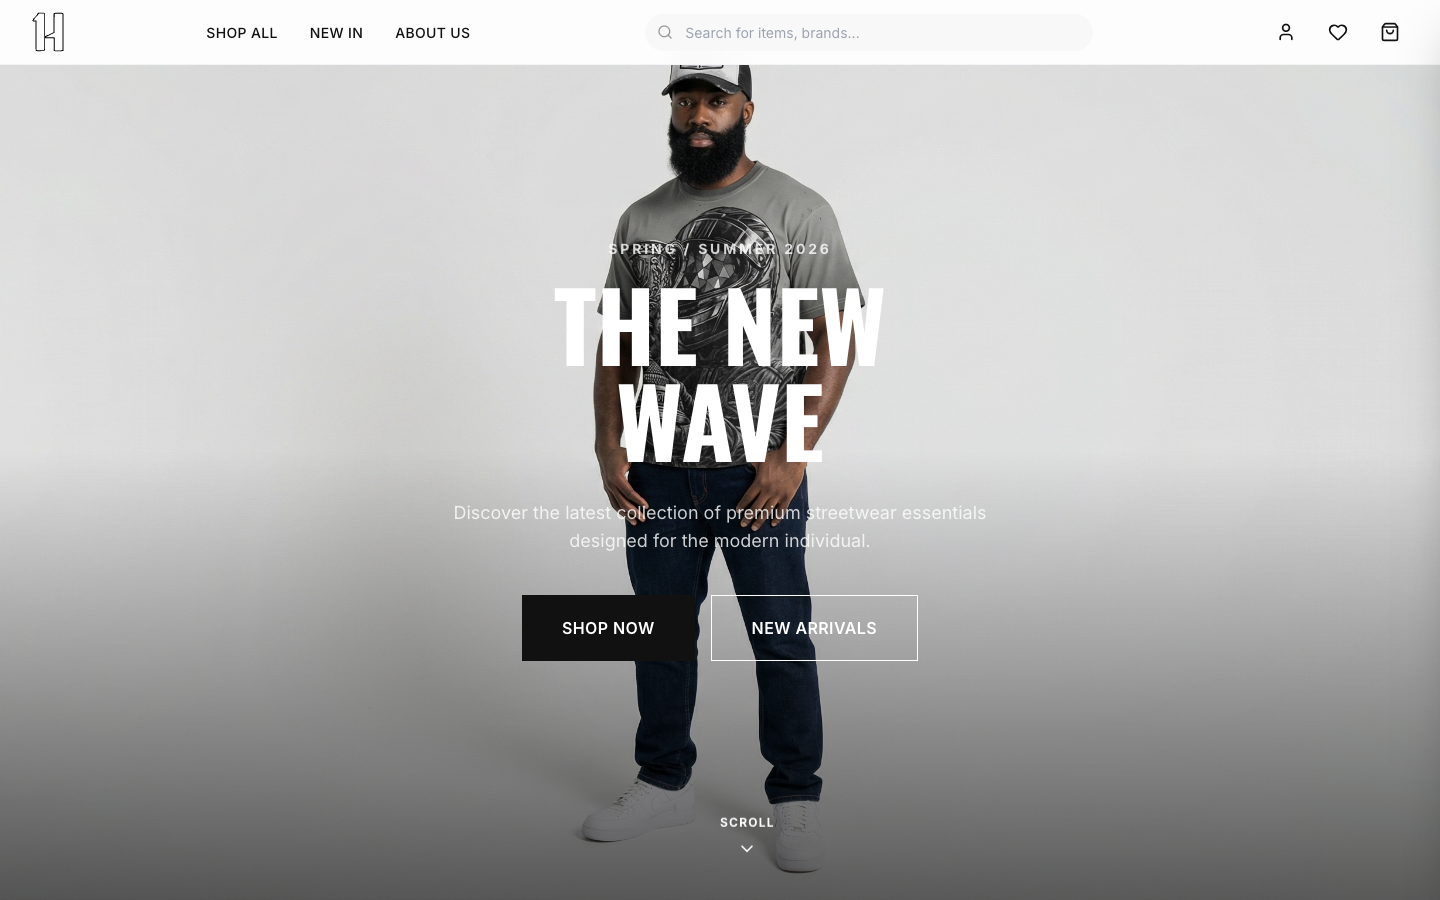
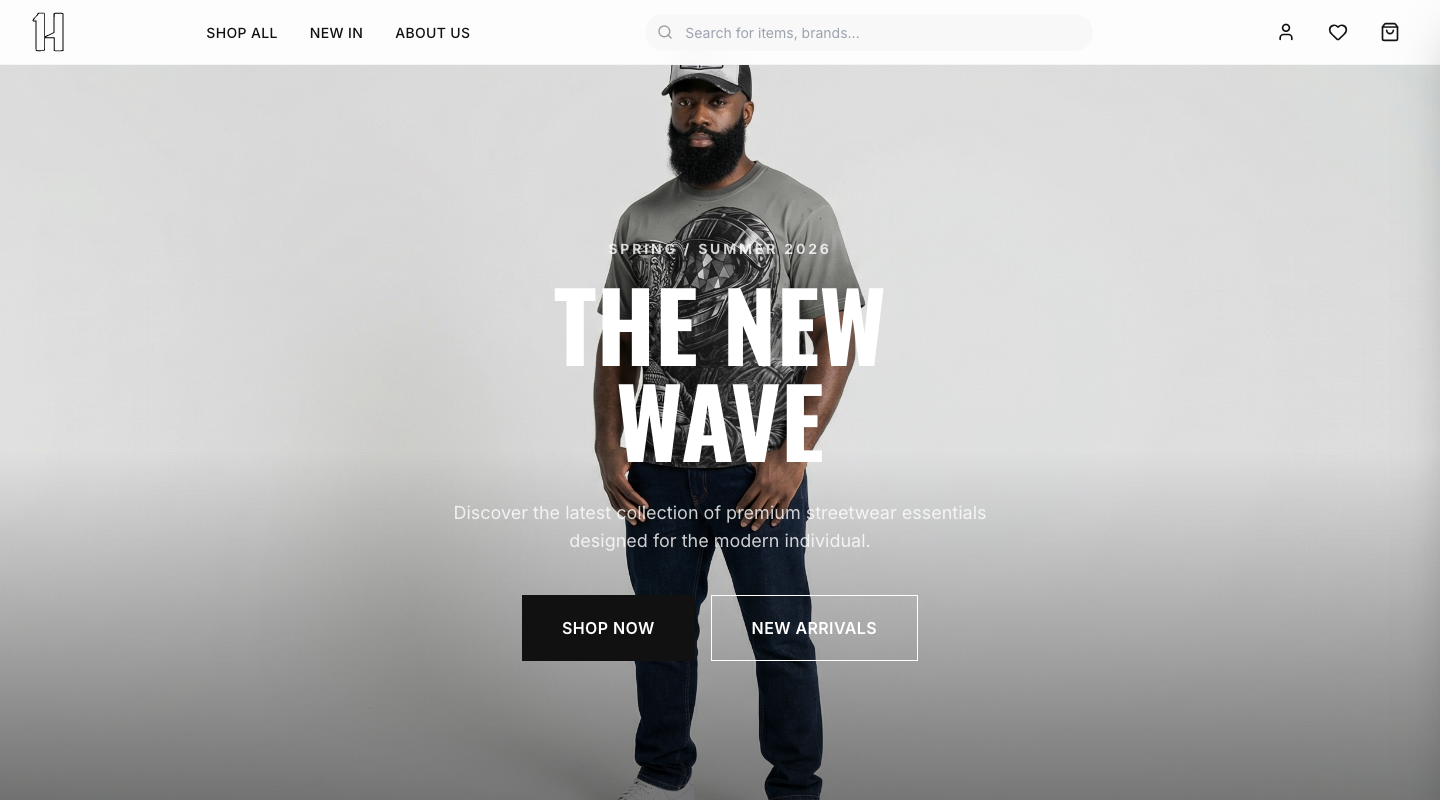
fix: further lower hero image to fully show hat
- Change object-position from 30% to 45%
- Ensure cap is fully visible above header

Changed region(s): [[0.0, 0.0312, 1.0, 1.0], [0.0, 0.6875, 0.4062, 1.0]]

diff --git a/screenshot-hero.js b/screenshot-hero.js
@@ -14,26 +14,29 @@ const puppeteer = require('puppeteer');
         timeout: 60000
     });
 
-    // Wait for the hero image to load
-    await page.waitForSelector('section.relative.h-screen img', { timeout: 10000 });
+    // Wait for products to load
+    await page.waitForFunction(
+        () => {
+            return document.querySelector('section.relative.h-screen img') !== null;
+        },
+        { timeout: 20000 }
+    );
 
-    // Take screenshot of the hero section
-    const heroElement = await page.$('section.relative.h-screen');
-    if (heroElement) {
-        await heroElement.screenshot({
-            path: 'hero-current.png',
-            type: 'png'
-        });
-        console.log('✅ Hero screenshot saved: hero-current.png');
-    }
+    // Force hide loader
+    await page.evaluate(() => {
+        const loader = document.getElementById('page-loader');
+        if (loader) loader.style.display = 'none';
+    });
 
-    // Also take full page screenshot
+    // Wait a bit more for render
+    await new Promise((r) => setTimeout(r, 2000));
+
+    // Take screenshot
     await page.screenshot({
-        path: 'fullpage-current.png',
-        fullPage: false,
+        path: 'hero-current.png',
         clip: { x: 0, y: 0, width: 1440, height: 800 }
     });
-    console.log('✅ Full page screenshot saved: fullpage-current.png');
+    console.log('✅ Screenshot saved: hero-current.png');
 
     await browser.close();
 })();

diff --git a/index.html b/index.html
@@ -291,7 +291,7 @@
                         src="hero-image.png"
                         alt="1 HUNDREL Relentless Trophy Tee and 1H Star Cap - Premium Streetwear Collection"
                         class="w-full h-full object-cover opacity-90"
-                        style="object-position: center 30%" />
+                        style="object-position: center 45%" />
                 </div>
                 <div class="absolute inset-0 bg-gradient-to-t from-black/60 via-transparent to-transparent"></div>
 
